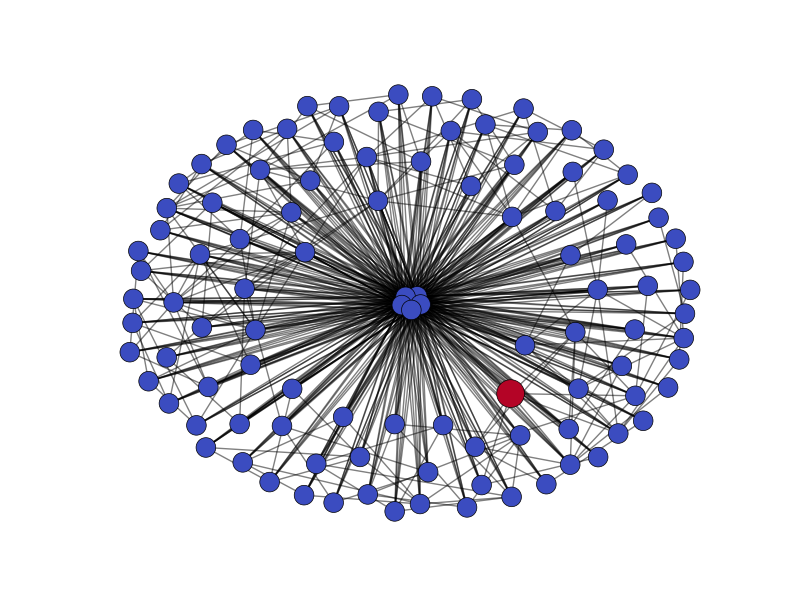
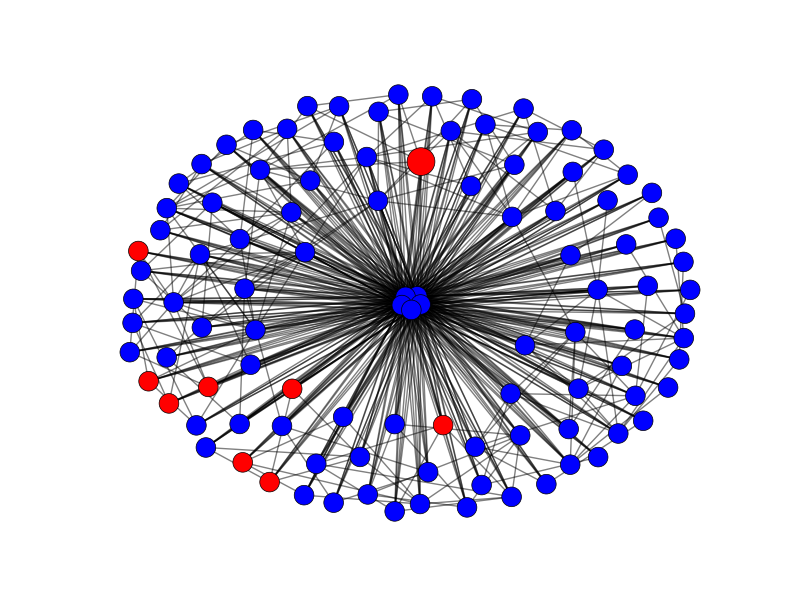
added deaths to graph visualization

diff --git a/utilities/plots.py b/utilities/plots.py
@@ -12,7 +12,13 @@ from model.model import network
 def draw_graph(G, step, l):
     G = G.network_plot
 
-    color_lookup = {k: k.red_proportion() for k in set(G.nodes())}
+    color_lookup = {}
+    for k in set(G.nodes):
+        if k.alive == True:
+            color_lookup[k] = k.red_proportion()
+        else:
+            color_lookup[k] = 101
+    # color_lookup = {k: k.red_proportion() for k in set(G.nodes())}
 
     fig = figure(figsize=(8, 6))
     rcParams.update({'font.size': 16, 'mathtext.default': 'regular'})
@@ -25,9 +31,20 @@ def draw_graph(G, step, l):
 
     weights = color_lookup.values()
     sizes = [200 if weight <= .6 else 400 for weight in weights]
-    node_colors = [0 if weight <= .6 else 1 for weight in list(weights)]
-    if all(node_colors):
-        node_colors = 'r'
+    # node_colors = [0 if weight <= .6 else 1 for weight in list(weights)]
+    node_colors = []
+    for weight in list(weights):
+        if weight == 101:
+            node_colors.append("k")
+        if weight < 0.6:
+            node_colors.append("b")
+        if weight <=1 and weight >=0.6:
+            node_colors.append("r")
+
+
+
+    # if all(node_colors):
+        # node_colors = 'r'
     # min_val, max_val = min(weights), max(weights)
 
     draw_networkx_edges(graph, plot_layout,alpha=0.5, width=1)

diff --git a/model/node.py b/model/node.py
@@ -17,24 +17,24 @@ class polya_node:
         self.delta_b = 0
         
         if self.risk == "mid":
-            self.init_red = 6
-            self.init_black = 4
+            self.init_red = 10
+            self.init_black = 10
         elif self.risk == "hi":
-            self.init_red = 6
-            self.init_black = 4
+            self.init_red = 12
+            self.init_black = 8
         elif self.risk == "lo":
-            self.init_red = 4
-            self.init_black = 6
+            self.init_red = 8
+            self.init_black = 12
         elif self.risk == "mid-ext":
-            self.init_red = 5
-            self.init_black = 5
-            self.delta_r = 5
-            self.delta_b = 5
+            self.init_red = 10
+            self.init_black = 10
+            self.delta_r = 10
+            self.delta_b = 10
         elif self.risk == "lo-ext":
-            self.init_red = 4
-            self.init_black = 6
-            self.delta_r = 2
-            self.delta_b = 3
+            self.init_red = 8
+            self.init_black = 12
+            self.delta_r = 4
+            self.delta_b = 6
         # elif self.profile == "hi traffic worker":
         #     self.init_red = 2
         #     self.init_black = 2

diff --git a/run/first-sim.py b/run/first-sim.py
@@ -21,8 +21,8 @@ for k in range(1):
     for j in range(time_steps):
         print("Urn " + str(G_super.nodes[0].id) + ". db: " + str(G_super.nodes[0].delta_b) + ", dr: " + str(G_super.nodes[0].delta_r) + "\n Red/black balls are " + str(G_super.nodes[0].total_red) +"/"+ str(G_super.nodes[0].total_black))
         
-        # if j % 5 == 0:
-        #     draw_graph(G_super, j, k)
+        if j % 5 == 0:
+            draw_graph(G_super, j, k)
         
         G_super.supernode_run_step()
         for node in G_super.nodes:
